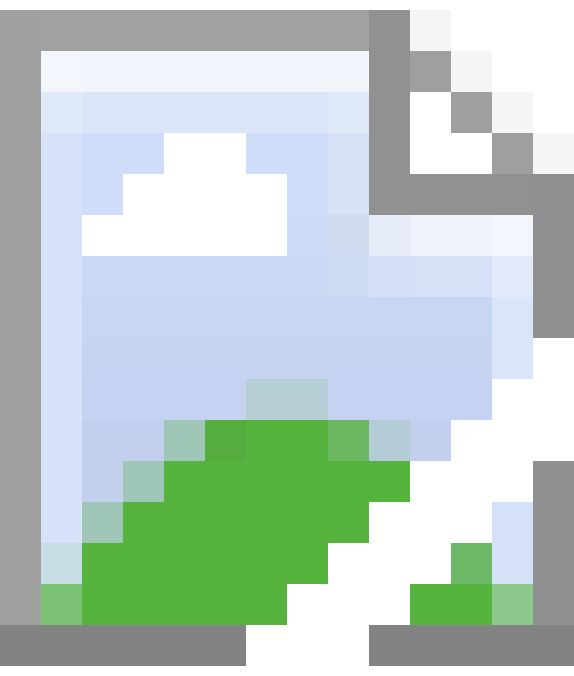
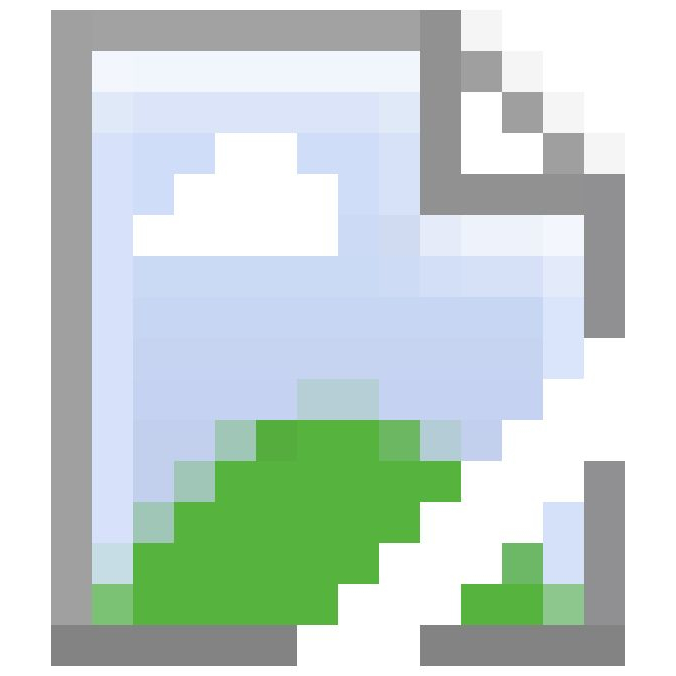
generator uses json only now

diff --git a/style.css b/style.css
@@ -1,24 +1,25 @@
 @import url("https://joebamna.github.io/newtab/style_base.css");
 
 .Links > a[href="https://mega.nz/fm/QNJGiZZa"] > i > img[src]{content: var(--MEGA)}
-.Links > a[href="https://autohotkey.com/docs/v2/"] > i > img[src]{content: var(--ahk);padding: 8px 8px;background-color: #448e3aff;width: 64px;height: 64px;}
+.Links > a[href="https://autohotkey.com/docs/v2/"] > i > img[src]{content: var(--ahk);padding: 8px 8px;background-color: #448e3aff;width: 64px;height: 64px}
 .Links > a[href="https://chat.openai.com/"] > i > img[src]{content: var(--ai)}
 .Links > a[href="https://bsky.app/"] > i > img[src]{content: var(--bluesky)}
-.Links > a[href="https://gamebanana.com/games/297"] > i > img[src]{content: var(--gamebanana);background-color: white;}
+.Links > a[href="https://gamebanana.com/games/297"] > i > img[src]{content: var(--gamebanana);background-color: white}
 .Links > a[href="https://gdbrowser.com/search"] > i > img[src]{content: var(--gd)}
-.Links > a[href="https://github.com/joebamna"] > i > img[src]{content: var(--githud);background-image: linear-gradient(to bottom, #353c47, #0f1216);}
-.Links > a[href="https://mail.google.com/mail/u/0/#inboxh"] > i > img[src]{content: var(--gmail);padding: 4px 4px;background-color: white;width: 64px;height: 64px;}
+.Links > a[href="https://github.com/joebamna"] > i > img[src]{content: var(--githud);background-image: linear-gradient(to bottom, #353c47, #0f1216)}
+.Links > a[href="https://mail.google.com/mail/u/0/#inboxh"] > i > img[src]{content: var(--gmail);padding: 4px 4px;background-color: white;width: 64px;height: 64px}
 .Links > a[href="https://icloud.com/"] > i > img[src]{content: var(--icloud)}
 .Links > a[href="https://monkeytype.com/"] > i > img[src]{content: var(--monkey)}
 .Links > a[href="https://newgrounds.com/"] > i > img[src]{content: var(--newgrounds)}
 .Links > a[href="https://www.patreon.com/home"] > i > img[src]{content: var(--patreon)}
 .Links > a[href="https://processing.org/"] > i > img[src]{content: var(--pde)}
-.Links > a[href="https://reddit.com/"] > i > img[src]{content: var(--reddit);background-color: white;border: 7px solid transparent;}
+.Links > a[href="https://reddit.com/"] > i > img[src]{content: var(--reddit);background-color: white;border: 7px solid transparent}
+.Links > a[href="https://steamdb.info/"] > i > img[src]{content: var(--steamdb)}
 .Links > a[href="https://steamgriddb.com/"] > i > img[src]{content: var(--steamgrid)}
-.Links > a[href="https://toonhud.com/"] > i > img[src]{content: var(--toonhud);padding: 4px 4px;background-color: #a03532;}
+.Links > a[href="https://toonhud.com/"] > i > img[src]{content: var(--toonhud);padding: 4px 4px;background-color: #a03532}
 .Links > a[href="https://terraria.wiki.gg/wiki/Terraria_Wiki"] > i > img[src]{content: var(--twiki)}
 .Links > a[href="https://twitch.tv/"] > i > img[src]{content: var(--twitch)}
 .Links > a[href="https://x.com"] > i > img[src]{content: var(--twitter)}
-.Links > a[href="https://virustotal.com/gui/home/upload"] > i > img[src]{content: var(--virustotal);background-color: #fefefe;}
+.Links > a[href="https://virustotal.com/gui/home/upload"] > i > img[src]{content: var(--virustotal);background-color: #fefefe}
 .Links > a[href="https://learn.viu.ca/d2l/loginh/?target=%2fd2l%2fhome"] > i > img[src]{content: var(--viu)}
 .Links > a[href="https://youtube.com/"] > i > img[src]{content: var(--youtube)}

diff --git a/style_base.css b/style_base.css
@@ -83,7 +83,7 @@
     --gmail: url("https://ssl.gstatic.com/ui/v1/icons/mail/rfr/gmail.ico");
     --gd: url("https://is1-ssl.mzstatic.com/image/thumb/Purple211/v4/87/a1/b1/87a1b173-cc9e-b506-c387-9faccdbb523e/AppIcon-1x_U007emarketing-0-11-0-85-220-0.png/246x0w.webp");
 
-
+    --steamdb: url("https://steamdb.info/static/logos/512px.png")
 
 
 

diff --git a/generator.py b/generator.py
@@ -26,8 +26,8 @@ na = 'N/A'
 indent = (sp * 4)
 
 cssIDs = simple(
-    CONTENT='$content',
-    APP='$appid'
+    IMG='$img',
+    APP='$id'
 )
 
 def clear(Maybe: bool = True):
@@ -45,34 +45,54 @@ def css_list_squash(css: list[str]) -> str:
 def list_replace(parts: list[str], old: str, new: str, count: SupportsIndex = -1, /) -> list[str]:
     return [part.replace(old, new, count) for part in parts]
 
+def dict_replace(kv: dict[str, str], old: str, new: str, count: SupportsIndex = -1, /) -> dict[str, str]:
+    return {k: v.replace(old, new, count) for k, v in kv.items()}
+
+def css_str(kv: dict[str, str]) -> str:
+    r = []
+
+    for k, v in kv.items():
+        r.append(f'{k}: {v}')
+
+    return semi.join(r)
+
+
 class App:
-    def __init__(self, f: str | Any) -> None:
-        self.ID = f.removesuffix('.txt')
-        self.props = []
+    def __init__(self, ID: str, data) -> None:
+        self.ID = ID
+        self.href = data['href']
+        self.props = data.get('props', {'content': cssIDs.IMG})
 
-        with open(os.path.join('APPS', f), 'r') as f:
-            self.props = f.read().splitlines()
+        self.props = dict_replace(self.props, cssIDs.IMG, f"var(--{cssIDs.APP})")
+        self.props = dict_replace(self.props, cssIDs.APP, self.ID)
 
-        #file is empty
-        if self.props == []:
-            self.props = [cssIDs.CONTENT]
+        # self.ID = f.removesuffix('.txt')
+        # self.props = []
 
-        #the 'content: var(--AppID)' placeholder
-        self.props = list_replace(self.props, cssIDs.CONTENT, f'content: {cssIDs.APP}')
+        # with open(os.path.join('APPS', f), 'r') as f:
+        #     self.props = f.read().splitlines()
 
-        #the AppID placeholder
-        self.props = list_replace(self.props, cssIDs.APP, f'var(--{self.ID})')
+        # #file is empty
+        # if self.props == []:
+        #     self.props = [cssIDs.APPIMG]
+
+        # #the 'content: var(--AppID)' placeholder
+        # self.props = list_replace(self.props, cssIDs.APPIMG, f'content: {cssIDs.APP}')
+
+        # #the AppID placeholder
+        # self.props = list_replace(self.props, cssIDs.APP, f'var(--{self.ID})')
     
     def __str__(self) -> str:
-        prop_count = len(self.props)
+        r = f'.Links > a[href="{self.href}"] > i > img[src]'
+        p = css_str(self.props)
 
-        r = f""".Links > a[href="{app_href[self.ID]}"] > i > img[src]
-{{{nil.join(self.props)}}}"""
-        
-        if prop_count == 0:
-            r = r.replace(newl, nil)
-        
-        return r
+        # if False:
+        #     p = p.replace(semi, semi + newl + indent)
+
+        # r += f'{newl}{{{p}{newl}}}{newl}'
+
+        r += f'{{{p}}}'
+        return r + newl
 
 base_header = '@import url("https://joebamna.github.io/newtab/style_base.css");'
 
@@ -83,15 +103,15 @@ style = simple(
 with open('style_base.css', 'r') as f:
     style.base = f.read()
 
-with open('app_href.json', 'r') as f:
-    app_href = json.load(f)
+with open('apps.json', 'r') as f:
+    appdata = json.load(f)
 
-for appfile in os.listdir('APPS'):
-    style.apps.append(App(appfile))
+for k, v in appdata.items():
+    style.apps.append(App(k, v))
 
 style.apps = sorted(style.apps, key=lambda a: a.ID)
 
 with open('style.css', 'r+') as f:
     f.seek(0)
     f.truncate()
-    f.write((newl * 2).join([base_header, css_list_squash([f"{a}" for a in style.apps])]))
+    f.write((newl * 2).join([base_header, nil.join([str(a) for a in style.apps])]))
